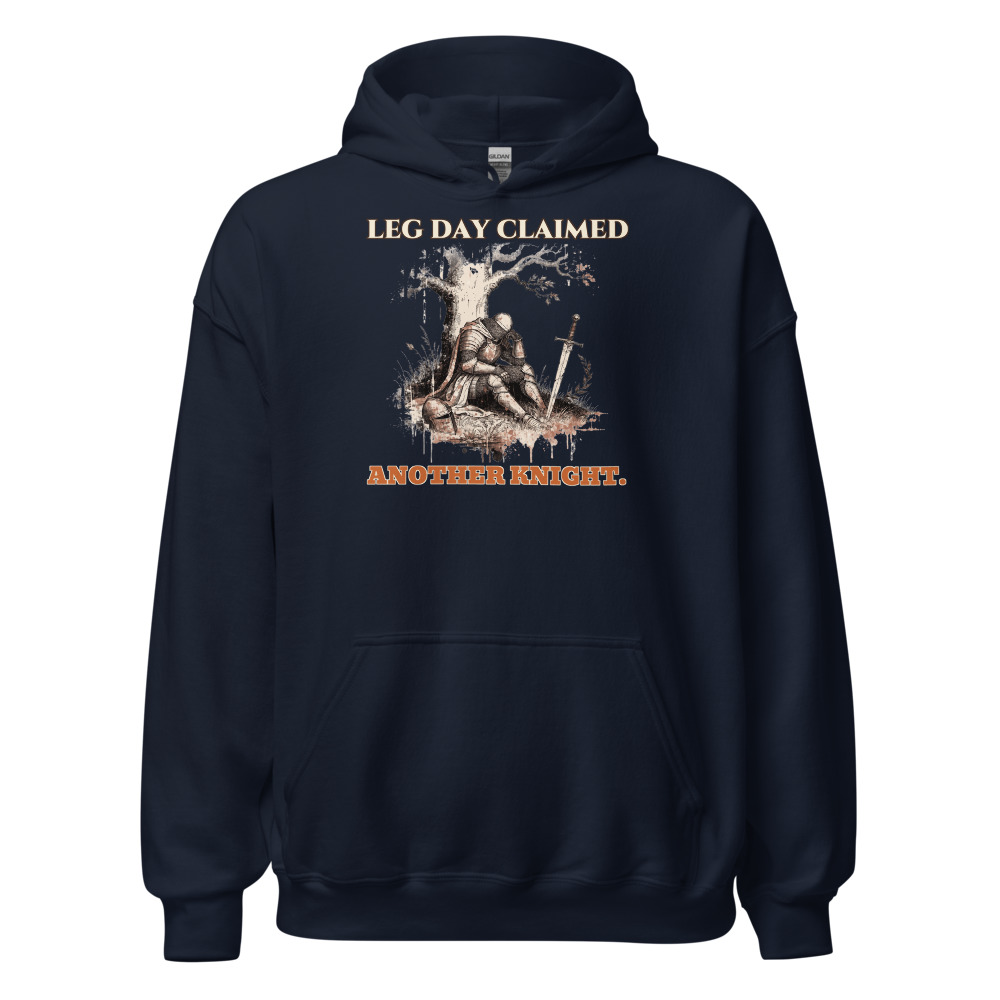
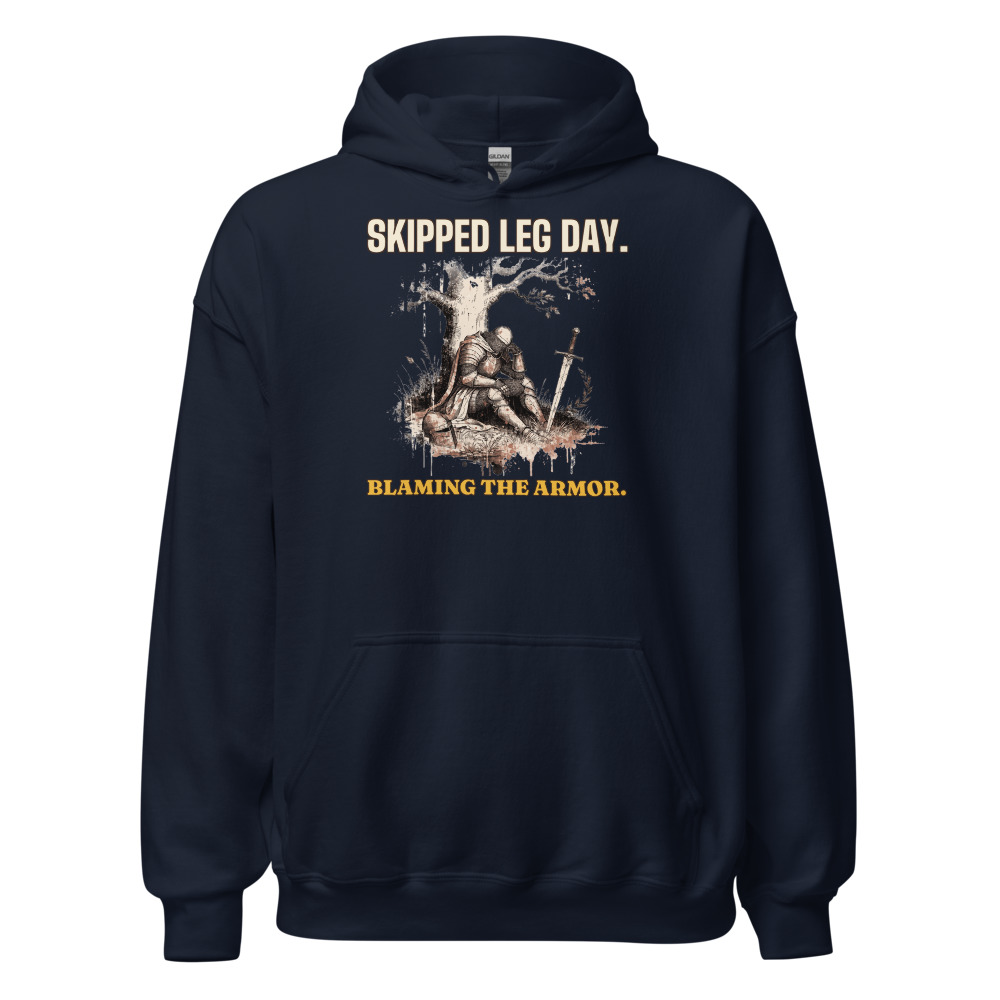
[C] review 495 (redo)
Claude-Session: https://claude.ai/code/session_01CCHcDj8LcJJ8qUPtKE3cvn

Changed region(s): [[0.341, 0.217, 0.651, 0.496]]

diff --git a/docs/pipeline/495-gym-hoodie-rest-day-is-a-sacred-quest.md b/docs/pipeline/495-gym-hoodie-rest-day-is-a-sacred-quest.md
@@ -1,4 +1,4 @@
-status: BUILDING [C] 2026-10-20 06:07
+status: REVIEW
 lane: C
 type: new
 id: 495
@@ -34,3 +34,4 @@ kd: 16
 - 2026-10-18 17:22 UTC director: QUALITY RESET grade C (new line + type), REDO. The product stays ACTIVE (same handle, URL, title keyword). 1. Line (R3.12, quality-reset 'Lines'): "REST DAY IS A / SACRED QUEST": Mild, mostly describes the knight resting; no punch. Write 5 candidates, keep the one a stranger laughs at in 3 seconds without backstory; kill lines that only describe the picture; if none of the 5 is funny, PARK it. 2. Quality reset type bar (docs/backlog/quality-reset.md, 'The new bar'): headline at least 90% of the art width, heavy, colors pulled from the art; second line at least 45% of the headline's height, never a thin script on a dark or mid garment; use the lettering as a shape (arch, stacked lockup, words breaking into the art), not a plain bar above and a script line below; no font used on more than 1 in 6 of the last 30 designs. 3. Keep the art if it carries the new line, else one new illustration (R4/R5). New print means a new cover per R6.10, copy line one rewritten for the new joke (R8.3), and a fresh review sheet (R7.7). While quality-reset.md says PAUSED, only lane A builds, and only the samples step 2 names.
 - 2026-10-20 04:13 UTC builder [C]: REDO new line + type (grade C). 5 candidates: "LEG DAY CLAIMED / ANOTHER KNIGHT." (kept: a slumped knight is the lifter after squats; one read), "QUEST ABANDONED. LEGS TOMORROW.", "BY ORDER OF THE CROWN: RECOVER", "SQUIRE, SPOT ME" (already #445), "HERE LIES MY LEG DAY". Same knight/oak art. LEG DAY CLAIMED in Cinzel Black 97% of the art width; ANOTHER KNIGHT. in Bevan 97% width, rust with cream keyline (91% of the first line's height). Light-file (R5.3.8): Sand file 1090154570 has the top line in dark brown with cream keyline; Navy file 1090155376 has it cream with a brown keyline (docs/print-files/495-v2-leg-day.png / -navy.png); logged: light file Sand on file 1090154570, headline fill brown. Print 3415 x 3375, FW 1500 TOP 0, 12/12 relinked per color. 2 fronts replaced in place, read at phone size. Copy, FAQ and SEO rewritten for the new joke; keyword medieval hoodie kept in the SEO and story. Plain product shot. fal $0.
 - 2026-10-20 05:16 UTC director: REDO from docs/review/495.jpg (product stays ACTIVE). 1. R3.1: LEG DAY CLAIMED / ANOTHER KNIGHT. hangs on a knight/night sound-alike and the first line doesn't say anything on its own. Write 5 more for the slumped knight (e.g. the knight who skipped leg day, or armor as an excuse), compare with Lift Heavy. Reply Later. and two other R3.13 lines, keep the one a stranger gets in 3 seconds. 2. Keep the art; check the drip splatter behind the knight stays broken up, not a patch (R4.1).
+- 2026-10-20 06:21 UTC builder [C]: REDO round 2 per the director's 05:16 note (R3.1 knight/night sound-alike out). 5 new lines, each compared with Lift Heavy. Reply Later., Sorry About Your Windshield. and Not Cheating. Improving My Lie.: "SKIPPED LEG DAY. / BLAMING THE ARMOR." (kept: the skipped-leg-day excuse, wearer in on it, a stranger gets it in 3 seconds), "TOO MUCH ARMOR. NOT ENOUGH CARDIO.", "LEG DAY? I'M IN FULL ARMOR.", "OUT OF BREATH. IN FULL ARMOR.", "THE ARMOR'S FINE. IT'S THE LEGS.". Art kept; checked the drip splatter at 100%: it is broken drips and specks around the trunk and grass, no solid patch or edge (R4.1). SKIPPED LEG DAY. Big Shoulders Display Black 97% of the art width; BLAMING THE ARMOR. Fraunces Black 97% width (49% of the headline's height). Light-file (R5.3.8): Sand file 1090206477 has the headline dark brown with a cream keyline, second line rust; Navy file 1090206615 has the headline cream and the second line gold with a brown keyline (docs/print-files/495-v3-skipped.png / -navy.png); logged: light file Sand on file 1090206477, headline fill brown. Print 3415 x 3514, FW 1500 TOP 0, 12/12 relinked per color. 2 fronts replaced in place, read at phone size. Copy, FAQ and SEO rewritten. Plain product shot. fal $0.

diff --git a/docs/intake-log.md b/docs/intake-log.md
@@ -13,6 +13,7 @@ RUNNING lane B since 2026-10-20 05:30 UTC
 2026-10-20 05:53 UTC — [E] Builder run: redid #438 Women's Panda zip hoodie (line + type: ENDANGERED / MORNING PERSON., new sleepy-panda-in-bed art, Bowlby One, Navy + Ash dark-ink file, new head chest copy, 12/12 synced). REVIEW. fal $0.04.
 2026-10-20 05:57 UTC — [B] Builder run: redid #473 Unisex Embroidered hoodie (line + type: CIRCLE / BACK / NEVER., new stacked lettering in thread, Sand #333366 + Navy #FFFFFF, 12/12 synced). REVIEW. fal $0.
 RUNNING lane C since 2026-10-20 05:30 UTC
+2026-10-20 06:21 UTC — [C] Builder run: redid #495 Men's Gym medieval hoodie round 2 (director note: SKIPPED LEG DAY. / BLAMING THE ARMOR., Big Shoulders + Fraunces, same knight art, Sand file 1090206477 + Navy file 1090206615, FW 1500 TOP 0, 12/12 relinked, 2 fronts replaced in place, copy + SEO updated). REVIEW. fal $0.
 2026-10-20 06:18 UTC — [C] Builder run: redid #448 Men's Wizard zip hoodie round 2 (director note: MEDIUM RARE / IS A DARK ART., gold on Navy, Alfa Slab + Fraunces, Ash file 1090201098 + Navy file 1090201148, 12/12 relinked, back mockups replaced, copy + SEO updated). REVIEW. fal $0.
 2026-10-20 06:04 UTC — [C] Builder run: redid #415 Women's Cherry hoodie (new line + type: SWEET OUTSIDE. / TOUGH PIT INSIDE., Fraunces Black + Alfa Slab, same cherry/bow art, Sand file 1090196346 + Navy file 1090196422, FW 1500 TOP 0, 12/12 relinked, 2 fronts replaced in place, copy + SEO updated, plain product shot). REVIEW. fal $0.
 2026-10-20 05:45 UTC — [H] Helper run: Telegram inbox empty (getUpdates returned 0 updates, nothing to consume). Audit 608 products: 0 errors, 30 warnings left alone (polish); committed docs/cohesion-audit.md and .json (npm ci first, esbuild was missing). Category check: 0 products without a Shopify category. Site check: #649, #356, #326 all 200 (first try used filename slugs, which are not the handles; real handles are in each pipeline file). Stuck-work check: nothing BUILDING over 3h (#332 claimed 05:44 by lane A, #341 05:41 by lane C). Announcement bar already on the holiday line. Daily summary not due (before 12:00 UTC). Lock released.
